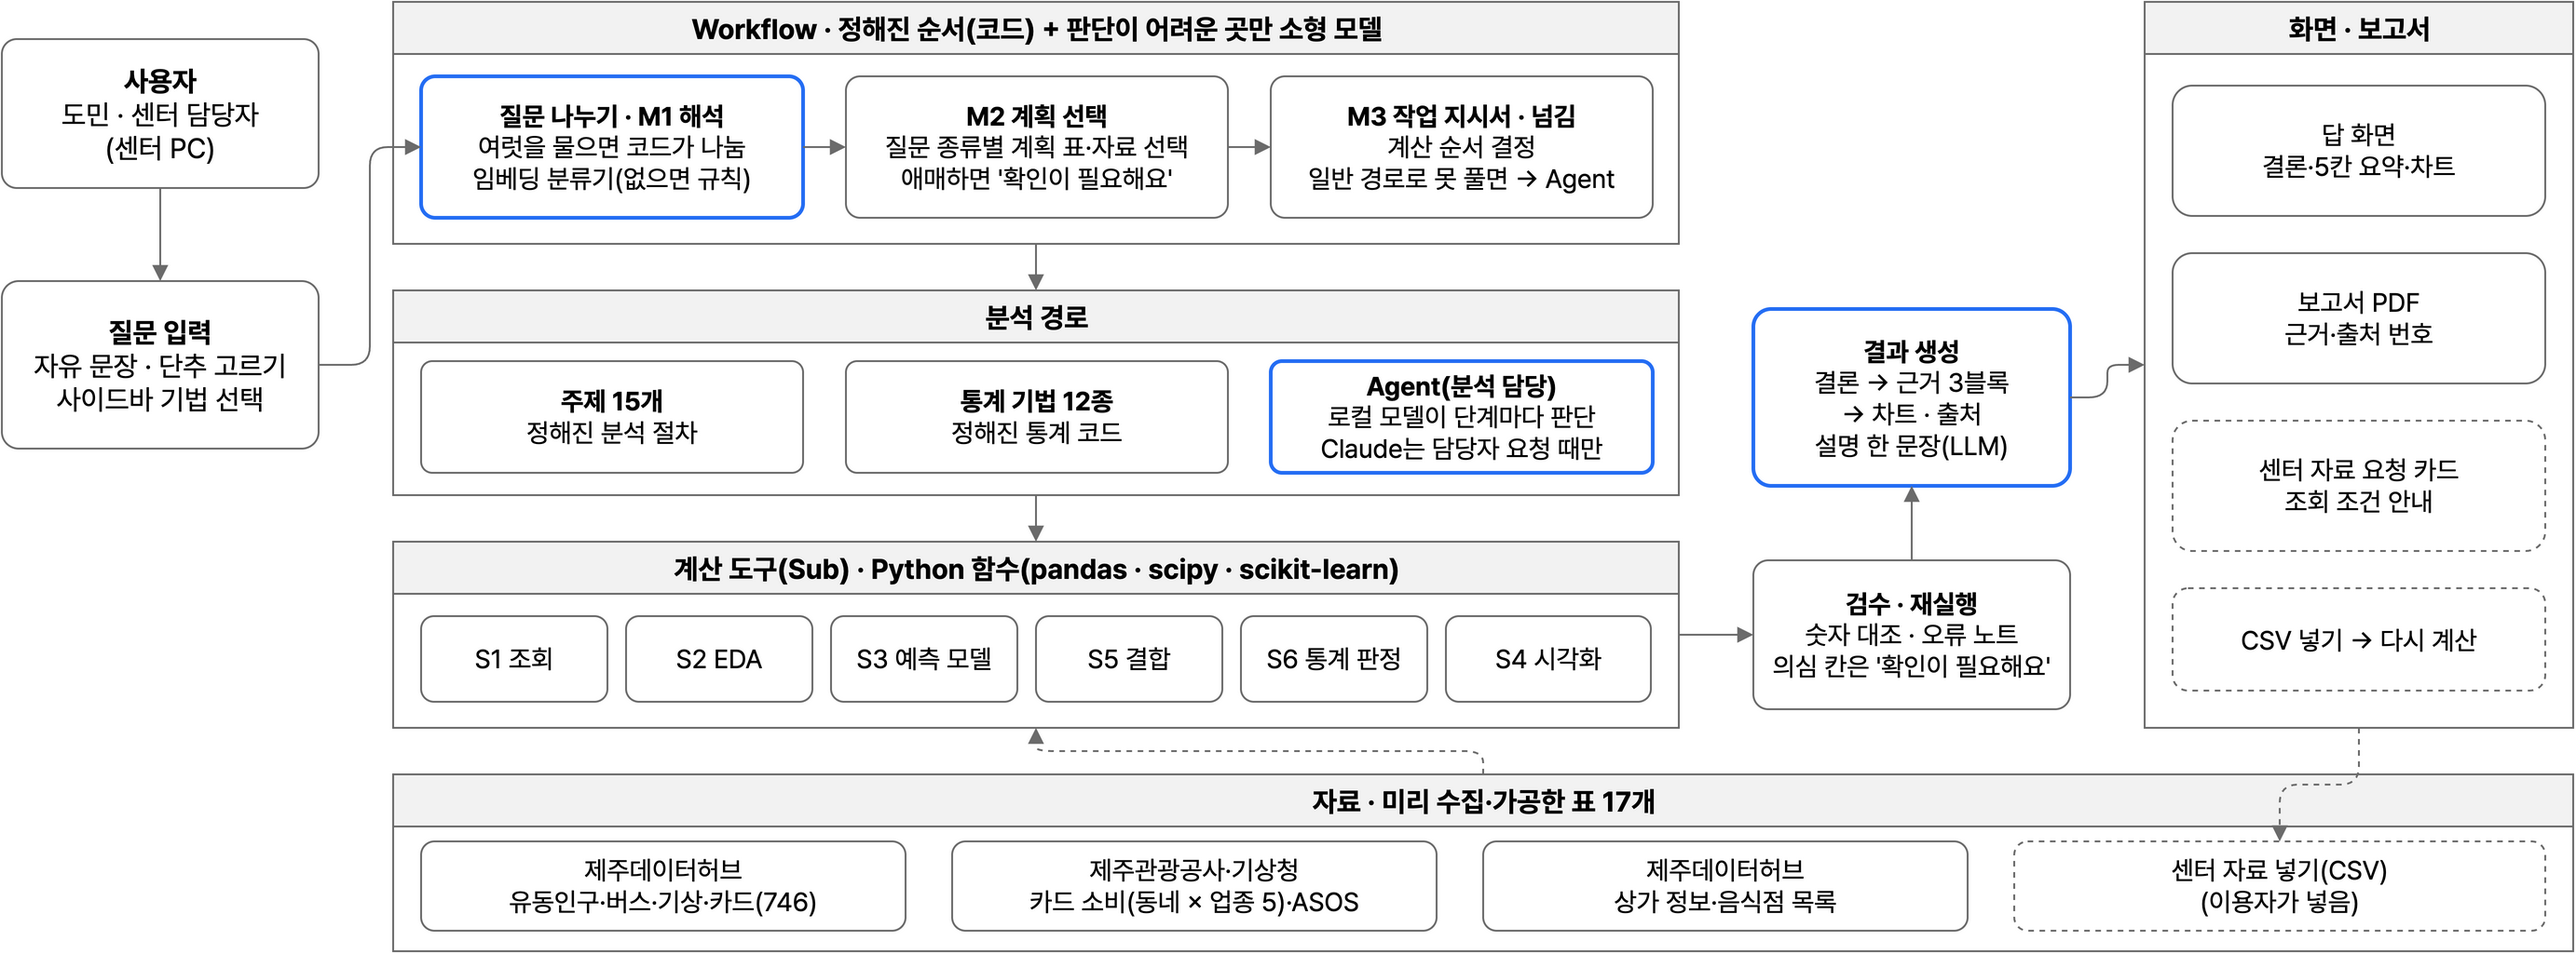
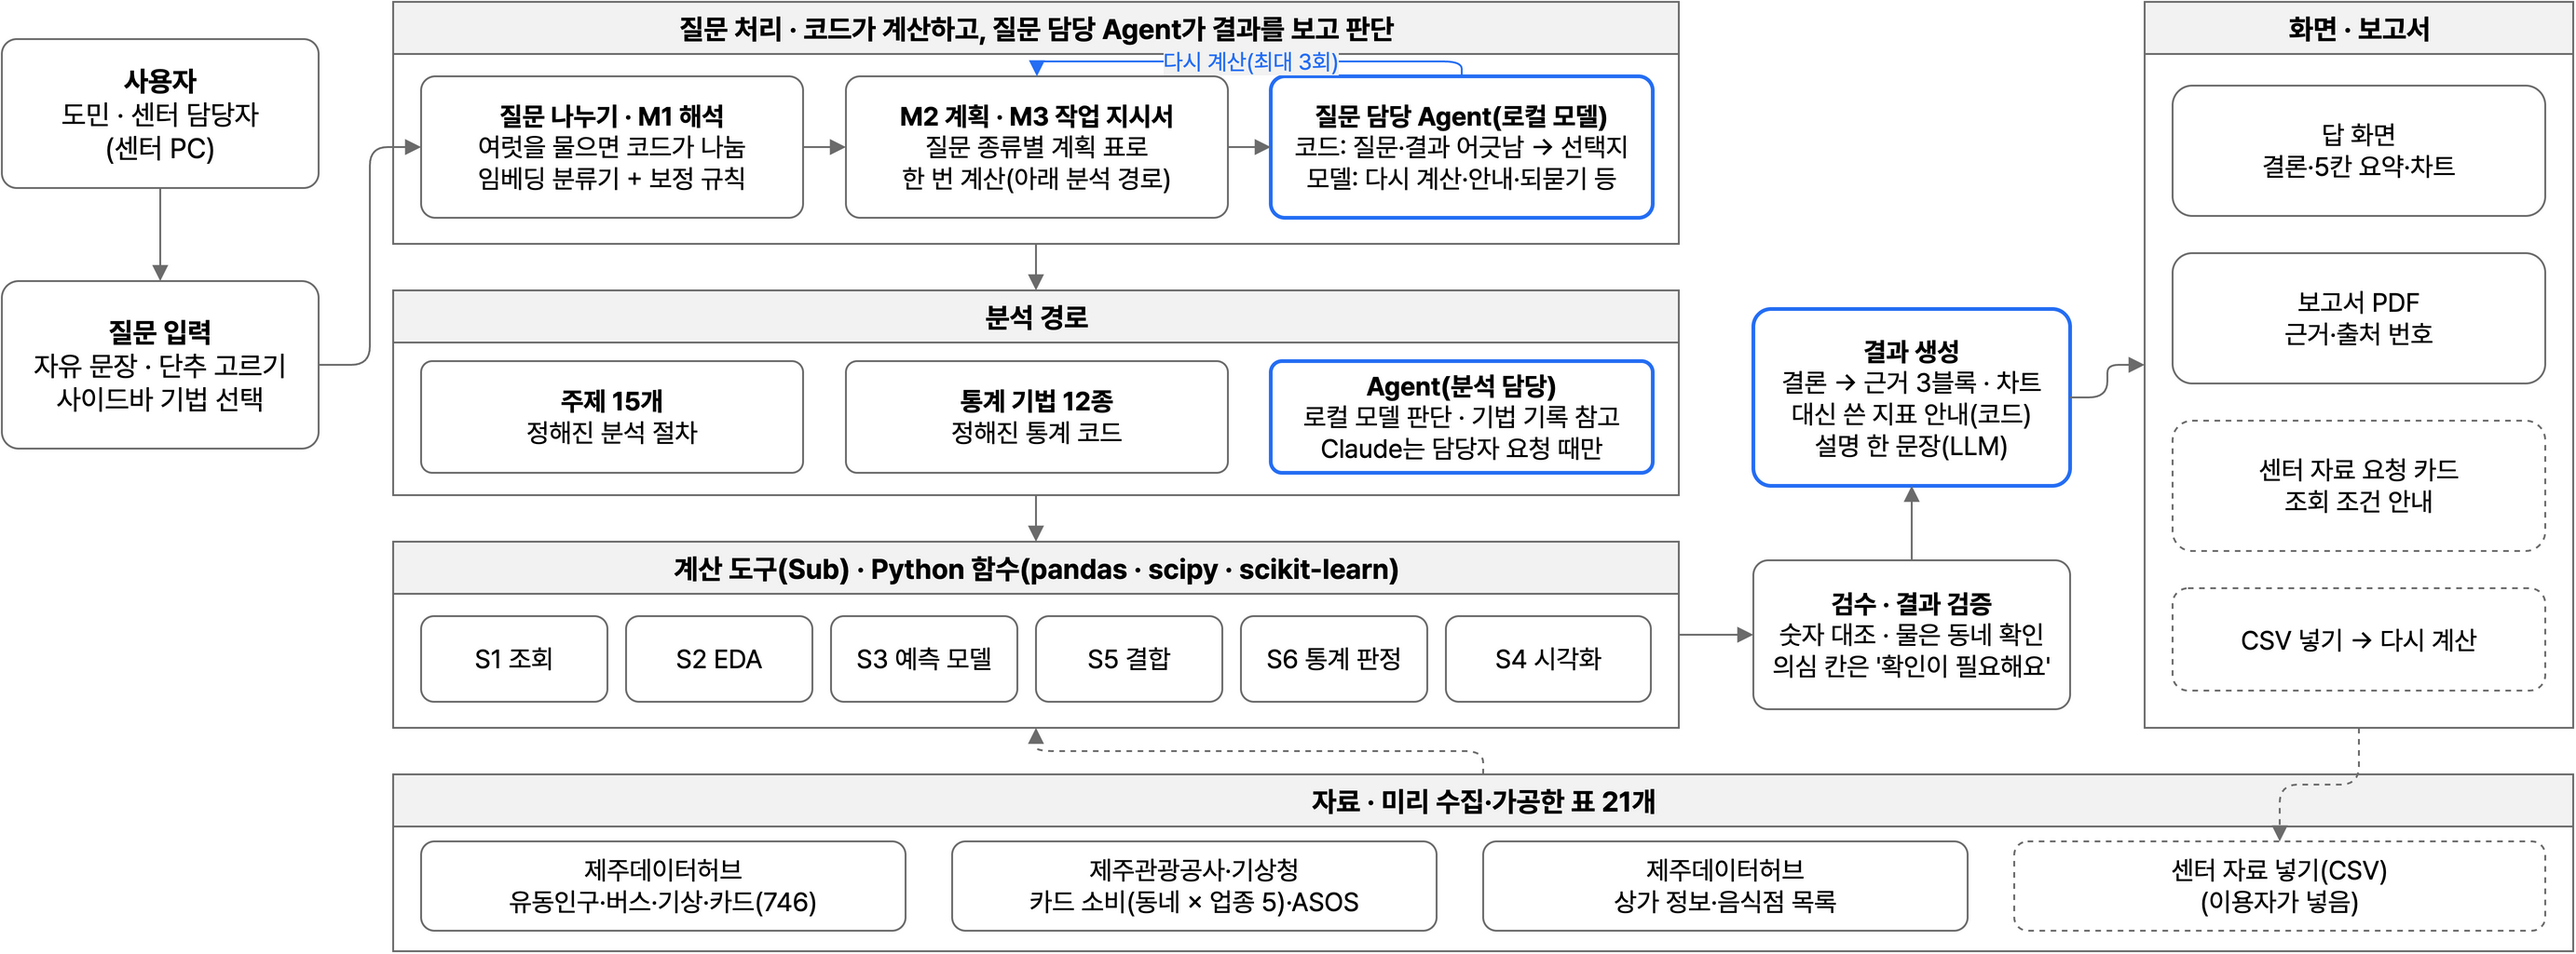
구조도 v9(원본 docs/기획/v9_Agent구조.drawio, 저장소 제외): 질문 담당 Agent(코드가 어긋남→선택지, 로컬 모델이 고름, 다시 계산 최대 3회)를 질문 처리 줄에 넣고 M2·M3를 '계획 표로 한 번 계산'으로 묶음, 검수에 결과 검증(물은 동네 확인), 결과 생성에 대신 쓴 지표 안내(코드), 표 21개. 결과 설명자료 2.1 처리 순서·2.2 한 줄 설명·2.3 도구 표에 질문 담당 Agent 반영 [skip ci]

diff --git a/docs/제출/결과_설명자료.md b/docs/제출/결과_설명자료.md
@@ -26,12 +26,13 @@
 3. **M2 계획 선택**: 질문 종류별 계획 표(`app/planner.py`)로 자료와 계산 순서를 정한다. 해석이 애매하면 이해 카드에 '확인이 필요해요'로 표시한다(`JEJU_CLAUDE=auto`면 Claude가 정해진 종류 13개 중에서 고름, `app/plan_agent.py`).
 4. **M3 작업 지시서·넘김**: 계산 순서를 확정한다. 일반 경로가 풀지 못한 질문(계산 실패, 분류기만 범위 밖으로 본 질문)은 Agent에게 넘긴다(`JEJU_CLAUDE=auto`면 Claude가 넘길지 판정).
 5. **Sub 실행(S1~S6)**: 조회, 기술 통계, 예측 모델, 차트, 결합, 통계 판정을 Python 코드로 계산한다.
-6. **검수·재실행**: 결과와 문장 속 숫자를 검사하고, 실패하면 재계획·재계산한다(2회까지). 해석 오류 후보는 오류 노트로 만들어 다시 읽히고, 남은 의심 칸은 화면에서 사람에게 확인받는다.
-7. **결과 생성**: 결론 한 줄, 5칸 요약, 근거 차트, 출처, 보고서 PDF를 만든다.
+6. **질문 담당 Agent**: 코드가 질문과 계산 결과의 어긋남(기간·조건·순위·지표·범위 밖 판단·동네 없음)을 찾아 선택지로 만들고, 로컬 모델(`qwen2.5:7b`)이 다시 계산·안내·되묻기·범위 밖·기법으로 가운데 하나를 고른다. 최대 3번 되풀이하고, 다시 계산한 답에 질문의 동네가 없으면 코드가 버린다(`app/question_agent.py`).
+7. **검수·재실행**: 결과와 문장 속 숫자를 검사하고, 실패하면 재계획·재계산한다(2회까지). 해석 오류 후보는 오류 노트로 만들어 다시 읽히고, 남은 의심 칸은 화면에서 사람에게 확인받는다.
+8. **결과 생성**: 결론 한 줄, 5칸 요약, 근거 차트, 출처, 보고서 PDF를 만든다. 대신 쓴 지표·업종 구분이 없는 값·없는 시점으로 답하면 무엇으로 대신했는지 코드가 문장으로 밝힌다(`result.honest_notes`).
 
 ### 2.2 Workflow와 Agent
-- 구조를 한 줄로 쓰면 '정해진 순서의 Workflow에, 판단이 어려운 곳에만 소형 모델 Agent가 끼어드는 구조'이다. Claude는 센터 담당자가 필요할 때 요청 단위로 켠다. 구분 기준은 Anthropic, *Building effective agents*(2024-12-19)의 정의를 따른다.
-- 일반 질문은 정해진 순서로 도구를 실행한다(Workflow). 숫자 계산을 LLM에 맡기지 않아 같은 질문에 같은 숫자가 나온다.
+- 구조를 한 줄로 쓰면 '센터 상담원처럼 계산 → 결과 확인 → 다음 행동을 되풀이하는 Agent'이다. 숫자 계산과 사실 검사는 코드가, 다음 행동의 선택은 로컬 소형 모델이 한다. Claude는 센터 담당자가 필요할 때 요청 단위로 켠다. 구분 기준은 Anthropic, *Building effective agents*(2024-12-19)의 정의를 따른다.
+- 계산 자체는 정해진 순서로 도구를 실행한다. 숫자 계산을 LLM에 맡기지 않아 같은 계산에는 같은 숫자가 나온다.
 - 기본 경로에서 LLM이 판단하는 곳은 도민 질문의 질문 담당 Agent(`app/question_agent.py`), 전문가 모드의 분석 담당 Agent(`app/analyst.py`), 넘겨받은 질문의 도구 루프다. 질문 담당 Agent는 계획 표로 한 번 계산한 결과를 코드가 질문과 대조해 어긋남과 선택지를 만들면, 모델이 다시 계산·안내·되묻기·범위 밖 가운데 하나를 고르는 일을 최대 3번 되풀이한다. 분석 담당 Agent는 센터 담당자가 요청을 처리하는 순서대로 ① 요청 이해(요청의 뜻으로 기법·자료 찾기·일반 질문을 고름) → ② 조건이 안 맞으면 대안 고르기 → ③ 계산 → ④ 도민 말 해석 → ⑤ 다음 분석 제안을 거친다. 로컬 모델(`qwen2.5:7b`)이 단계마다 한 번 판단하고, 코드는 판단을 검사하고 숫자를 계산한다. 기법 이름이 적혀 있어도 먼저 모델이 판단하고, 이름과 다르면 코드가 한 번 되묻는다. 이름이 없으면 질문 기록(RAG, `app/rag.py`)에서 비슷한 과거 요청 5개를 찾는다. 그 요청들이 받은 기법과 모델의 첫 판단이 크게 어긋나면 예시를 붙여 한 번 더 판단하게 한다. 마지막 판단은 모델이 하고 코드는 결과를 바꾸지 않는다. 지금 기록은 학습·조정용 문장 786개이고, 운영에서 질문이 쌓이면 담당자가 확인하거나 고친 요청을 기록에 더할 수 있다(색인을 다시 만드는 명령 `tools/rag_build.py`, 자동 반영은 아직 없음).
 - 담당자가 [Claude로 분석]을 누른 요청은 Claude가 도구 5개(코드 작성·격리 실행 포함)로 푼다. `JEJU_CLAUDE=auto`면 Claude가 애매한 질문의 계획 선택과 넘김 판정도 맡는다. 두 판단은 정해진 선택지 안에서만 고르고, 같은 질문의 결정은 저장해 다시 쓴다.
 - 도구 루프(Agent)는 LLM이 도구를 고르고 결과를 보고 다음 도구를 고른다. 단계 5회·90초 상한과 숫자 대조는 코드가 통제한다.
@@ -46,6 +47,7 @@
 | `choose_plan` | Claude(`JEJU_CLAUDE=auto`) | 애매한 질문의 종류(13개 + Agent) | 분류기 결과. 고른 종류가 검수 규칙에 걸려도 분류기 결과 |
 | `judge_route` | Claude(`JEJU_CLAUDE=auto`) | 일반 경로로 충분한지 / Agent로 넘길지 | 일반 경로 결과 |
 | M3 작업 지시서(`app/runner.py`) | 프로그램 | 종류 → 계산 순서 | 일부만 답하고 이유 표시 |
+| 질문 담당 Agent(`app/question_agent.py`) | `qwen2.5:7b`(차례마다 1회, 최대 3회) | 질문·결과 어긋남 → 선택지 → 다시 계산·안내·되묻기·범위 밖·기법으로 | 모델 실패 시 지금 답 그대로, 다시 계산한 답에 물은 동네가 없으면 버림, Ollama가 없으면 계획 표 답 |
 | S1~S6 계산 도구 | 작업 지시서 | 표 조회·통계·예측·판정 | 그 칸에 이유 표시 |
 | 통계 기법 12종(`app/techniques.py`) | 프로그램 또는 Agent | 상관·군집·시계열 분해·회귀·두 집단 검정·분포·이상치·변화 분해·입지계수·생존분석·업종 다양성·변이할당 | 적용 조건 미충족 시 계산하지 않고 이유 표시 |
 | 분석 담당 Agent(`app/analyst.py`) | `qwen2.5:7b`(단계마다 1회 판단) | 요청 이해 → 대안 → 계산 → 해석 → 다음 분석 | 기법 이름과 다르면 되묻기, 질문 기록과 어긋나면 예시를 붙여 되묻기, 목록 밖 동네·업종 빼기, 해석에 숫자·결과 밖 동네가 있으면 기법 코드 문장 |

diff --git a/README.md b/README.md
@@ -45,7 +45,7 @@
 | 4. 전문가 모드 | 센터 담당자 | 하려는 분석을 문장으로 요청 | 로컬 모델이 기법 12종 중에서 골라 실행. 목록에 없는 분석은 담당자가 [Claude로 분석]을 눌러 Claude가 코드를 작성하고, 검사 뒤 분리된 프로세스에서 실행 |
 
 ### Agent 구조
-![Agent 구조: 질문 나누기·M1 해석 → M2 계획 선택 → M3 작업 지시서·넘김 → 분석 경로(주제 15개·통계 기법 12종·Agent 도구 루프) → 계산 도구 S1~S6 → 검수·재실행 → 결과 생성](docs/제출/img/agent_structure.png)
+![Agent 구조: 질문 나누기·M1 해석 → M2 계획·M3 작업 지시서로 한 번 계산 → 질문 담당 Agent가 결과를 보고 다시 계산(최대 3회)·안내·되묻기 → 분석 경로(주제 15개·통계 기법 12종·분석 담당 Agent) → 계산 도구 S1~S6 → 검수·결과 검증 → 결과 생성](docs/제출/img/agent_structure.png)
 
 구조를 한 줄로 쓰면 '센터 상담원처럼 계산 → 결과 확인 → 다음 행동을 되풀이하는 Agent'이다. 도민 질문은 질문 담당 Agent가, 담당자의 분석 요청은 분석 담당 Agent가 맡는다. 두 Agent 모두 로컬 소형 모델(`qwen2.5:7b`)이 판단하고, 숫자 계산과 사실 검사(질문과 결과의 어긋남, 결과에 질문의 동네가 있는지)는 Python 코드가 한다. Claude는 센터 담당자가 필요할 때만 켠다.
 
@@ -54,7 +54,7 @@
 | 질문 나누기 | 한 질문에 묻는 것이 여럿이면 하위 질문으로 나누고, 앞 조각의 동네·업종과 앞 결과('1위 동네')를 뒤 조각에 넘긴다 | 코드(규칙) |
 | M1 질의 해석 | 질문 종류·동네·업종·지표를 읽는다 | 임베딩 분류기(bge-m3 + 로지스틱 회귀), 없으면 사전 규칙 |
 | M2 계획 선택 | 질문 종류별 계획 표로 자료와 계산 순서를 정한다. 해석이 애매하면(확신도 낮음, 분류기·규칙 불일치) 이해 카드에 '확인이 필요해요'로 표시한다 | 코드(`JEJU_CLAUDE=auto`면 Claude가 정해진 종류 13개 중에서 고름) |
-| 질문 담당 Agent(일반 질문) | 계획 표로 한 번 계산한 뒤, 코드가 질문과 결과의 어긋남(물은 기간·조건으로 계산했는지, 순위를 물었는데 한 동네 값인지, 지표가 질문 뜻과 맞는지, 범위 밖 판단이 규칙과 다른지, 동네가 없는지)을 찾아 선택지로 만든다. 모델이 '다시 계산(값은 선택지 안에서)·안내 붙여 답하기·지금 답·되묻기·범위 밖·기법으로' 중 하나를 고르고, 최대 3번 되풀이한다. 다시 계산한 답에 질문의 동네가 없으면 코드가 버린다 | 로컬 `qwen2.5:7b`가 차례마다 한 번 판단. Ollama가 없으면(웹 데모) 계획 표 답 그대로 |
+| 질문 담당 Agent(일반 질문) | 계획 표로 한 번 계산한 뒤, 코드가 질문과 결과의 어긋남(물은 기간·조건으로 계산했는지, 순위를 물었는데 한 동네 값인지, 지표가 질문 뜻과 맞는지, 범위 밖 판단이 규칙과 다른지, 동네가 없는지)을 찾아 선택지로 만든다. 모델이 '다시 계산(값은 선택지 안에서)·안내 붙여 답하기·지금 답·되묻기·범위 밖·기법으로' 중 하나를 고르고, 최대 3번 되풀이한다. 다시 계산한 답에 질문의 동네가 없으면 코드가 버리고, 대신 쓴 지표로 답하면 코드가 그 사실을 답에 적는다 | 로컬 `qwen2.5:7b`가 차례마다 한 번 판단. Ollama가 없으면(웹 데모) 계획 표 답 그대로 |
 | M3 작업 지시서·넘김 | 계산 순서를 확정한다. 일반 경로가 풀지 못한 질문(계산 실패, 분류기만 범위 밖으로 본 질문)은 Agent에게 넘긴다 | 코드(`JEJU_CLAUDE=auto`면 Claude가 넘길지 판정) |
 | Agent(분석 담당) | 전문가 모드 요청을 센터 분석 담당자처럼 단계로 처리한다. ① 요청 이해(요청의 뜻으로 기법 12종·자료 찾기·일반 질문 중 하나와 동네·업종을 고름. 비슷한 과거 요청의 기법과 크게 어긋나면 그 예시를 붙여 한 번 더 판단) → ② 조건이 안 맞으면 대안 고르기 → ③ 계산 → ④ 결과를 도민 말로 해석(숫자 없이) → ⑤ 다음 분석 제안. 넘겨받은 질문은 도구 루프(일반 답 다시 부르기·기법·센터 자료 찾기)로 푼다 | 로컬 `qwen2.5:7b`가 단계마다 한 번씩 판단하고, 코드가 판단을 검사한다(적힌 기법 이름과 다르면 되묻기, 질문 기록(RAG)과 어긋나면 예시를 붙여 되묻기, 목록 밖 동네 빼기, 해석에 결과 밖 숫자가 있으면 버리기). 담당자가 [Claude로 분석]을 누르면 Claude(도구 5개, 코드 작성 포함) |
 | 검수·재실행 | 단계마다 결과를 검사하고 실패하면 재계획·재계산한다(2회까지). 해석이 의심스러운 칸(분류기·규칙 불일치, 저확신)은 오류 노트로 정리해 이해 카드에 '확인이 필요해요'로 표시하고, 도민이 [조건 바꾸기]로 고친다(`JEJU_CLAUDE=auto`면 Claude가 먼저 다시 읽음). 고친 해석은 재학습 자료로 쓴다 | 코드 + 사람 |
